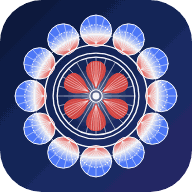
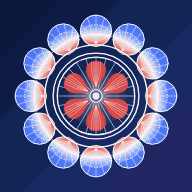
Ícono de la app cuadrado y lleno, sin esquinas transparentes
Los íconos icono-192/512 (purpose «any») tenían las esquinas redondeadas y
transparentes; si el celular usa ese ícono en vez del adaptable (maskable),
Samsung One UI lo achica y le pone un fondo blanco detrás. Ahora son cuadrados,
con el fondo azul hasta los bordes, como el adaptable. Service worker v30.

Claude-Session: https://claude.ai/code/session_018RLWsoFrqdHsLBpKTAcuxN

diff --git a/sw.js b/sw.js
@@ -7,7 +7,7 @@
  *   y así nunca se muestra un pronóstico viejo como si fuera nuevo.
  * Para publicar una versión nueva de la app, cambia el número de VERSION.
  */
-const VERSION = 'v29';
+const VERSION = 'v30';
 const CACHE = 'clima-py-' + VERSION;
 const APP = ['./', 'index.html', 'css/estilos.css', 'js/geo.js', 'js/01-base.js', 'js/02-datos.js', 'js/03-mapa.js', 
   'js/04-ambiente.js', 'js/05-paisaje.js', 'js/06-sonido.js', 'js/07-ajustes.js', 'js/08-navidad.js', 'js/09-detalle.js', 
